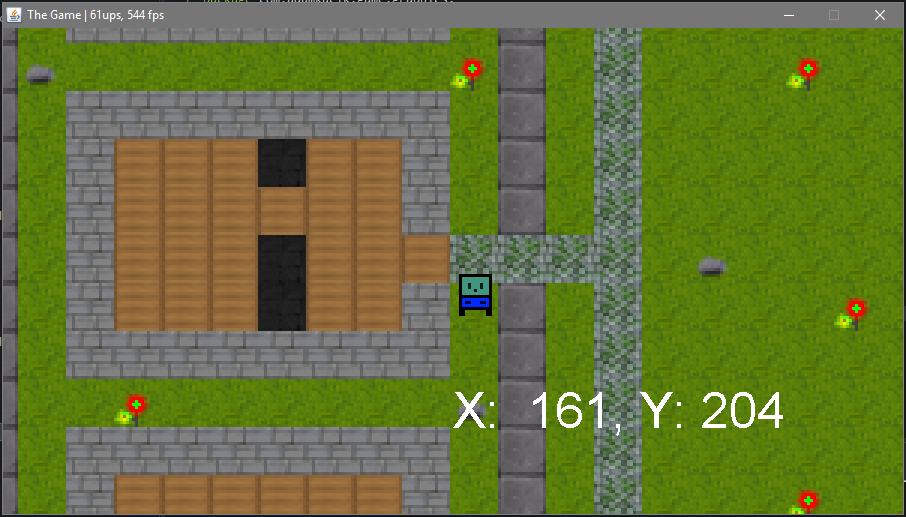
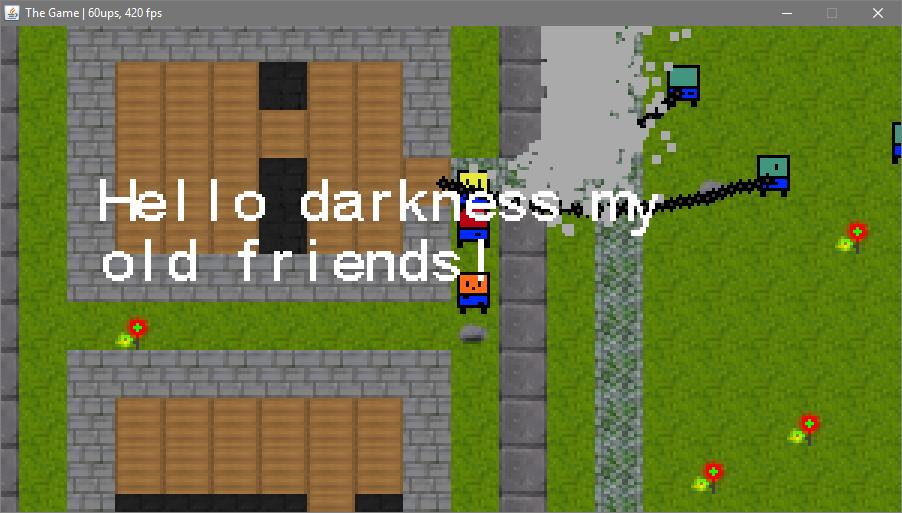
Text spacing/color

diff --git a/src/com/adamkacik/game/graphics/Screen.java b/src/com/adamkacik/game/graphics/Screen.java
@@ -19,6 +19,7 @@ public class Screen {
 	public final int MAP_SIZE_MASK = MAP_SIZE - 1;
 	public int xOffset, yOffset;
 	public int[] tiles = new int[MAP_SIZE * MAP_SIZE]; // 4096
+	private final int ALPHA_COL = 0xffff00ff;
 
 	private Random random = new Random();
 
@@ -53,6 +54,22 @@ public class Screen {
 		}
 	}
 	
+	public void renderTextCharacter(int xp, int yp, Sprite sprite,int color,  boolean fixed) {
+		if (fixed) {
+			xp -=xOffset;
+			yp -=yOffset;
+		}
+		for (int y=0; y < sprite.getHeight(); y++) {
+			int ya=y+yp;
+			for (int x=0; x<sprite.getWidth(); x++) {
+				int xa = x+xp;
+				if(xa<0 || xa>= width || ya <0 || ya>= height) continue;
+				int col = sprite.pixels[x+y*sprite.getWidth()];
+				if (col!= ALPHA_COL && col != 0xff7f007f) pixels[xa+ya*width]=color;
+			}
+		}
+	}
+	
 	public void renderSprite(int xp, int yp, Sprite sprite, boolean fixed) {
 		if (fixed) {
 			xp -=xOffset;
@@ -63,7 +80,8 @@ public class Screen {
 			for (int x=0; x<sprite.getWidth(); x++) {
 				int xa = x+xp;
 				if(xa<0 || xa>= width || ya <0 || ya>= height) continue;
-				pixels[xa+ya*width]=sprite.pixels[x+y*sprite.getWidth()];
+				int col = sprite.pixels[x+y*sprite.getWidth()];
+				if (col!= ALPHA_COL && col != 0xff7f007f) pixels[xa+ya*width]=col;
 			}
 		}
 	}
@@ -98,7 +116,7 @@ public class Screen {
 				if (xa < 0)
 					xa = 0;
 				int col = p.getSprite().pixels[x + y * p.getSpriteSize()];
-				if (col != 0xffff00ff) {
+				if (col != ALPHA_COL) {
 					pixels[xa + ya * width] = col;
 				}
 			}
@@ -125,7 +143,7 @@ public class Screen {
 				if (xa < 0)
 					xa = 0;
 				int col = sprite.pixels[xs + ys * 16];
-				if (col != 0xffff00ff) // +2 extra ff at the begining because RGB
+				if (col != ALPHA_COL) // +2 extra ff at the begining because RGB
 					pixels[xa + ya * width] = col;
 			}
 
@@ -148,7 +166,7 @@ public class Screen {
 				int col = mob.getSprite().pixels[(int)xs + (int)ys * 16];
 				if((mob instanceof Chaser) && col == 0xff42967F ) col = 0xffBA0015; // different colour for chaser
 				if((mob instanceof Star) && col == 0xff42967F) col = 0xffE8E83A; 
-				if (col != 0xffff00ff) // +2 extra ff at the begining because RGB
+				if (col != ALPHA_COL) // +2 extra ff at the begining because RGB
 					pixels[(int)xa + (int)ya * width] = col;
 			}
 

diff --git a/src/com/adamkacik/game/graphics/Font.java b/src/com/adamkacik/game/graphics/Font.java
@@ -20,12 +20,28 @@ public class Font {
 
 	}
 
-	public void render(String text, Screen screen) {
+	public void render(int x, int y, String text, Screen screen) {
+		render(x,y,0,0,text,screen);
+		}
+	public void render(int x, int y,int color, String text, Screen screen) {
+		render(x,y,0,color,text,screen);
+		}
+	public void render(int x, int y, int spacing,int color, String text, Screen screen) {
+		int xOffset = 0;
+		int line = 0;		
 		for (int i=0; i<text.length(); i++) {
+			xOffset += 16+spacing;
+			int yOffset =0;
 			char currentChar = text.charAt(i);
+			if(currentChar == 'g' || currentChar == 'y' || currentChar == 'j' || currentChar == 'p' || currentChar == 'q') yOffset = 4;
+			if(currentChar == ',') yOffset=2;
+			if(currentChar == '\n') {
+				xOffset=0;
+				line++;
+			}
 			int index = charIndex.indexOf(currentChar);
 			if (index == -1) continue;
-			screen.renderSprite(50 + i*16, 40, characters[index], false);
+			screen.renderTextCharacter(x + xOffset, y+line*20+yOffset, characters[index], color, false);
 			
 		}
 		}

diff --git a/src/com/adamkacik/game/Game.java b/src/com/adamkacik/game/Game.java
@@ -145,7 +145,7 @@ public class Game extends Canvas implements Runnable {
 		double xScroll = player.getX() - screen.width / 2; // middle of screen
 		double yScroll = player.getY() - screen.height / 2;
 		level.render((int)xScroll, (int)yScroll, screen);
-		font.render("The game!",screen);
+		font.render(20,50,-5,0xffffff,"Hello darkness my\nold friends!",screen);
 		//player.render(screen);
 		//screen.renderSheet(40, 40, SpriteSheet.player_down, false);
 		for (int i = 0; i < pixels.length; i++) {

diff --git a/src/com/adamkacik/game/level/SpawnLevel.java b/src/com/adamkacik/game/level/SpawnLevel.java
@@ -33,13 +33,13 @@ public class SpawnLevel extends Level {
 			System.out.println("Exception!! Could not load level file!!");
 		}
 		for (int i=0; i<2; i++) {
-			//add(new Dummy(191+i*20,170-i*13));
+			add(new Dummy(191+i*20,170-i*13));
 			
 		}
 		for (int i=0; i<1;i++) {
-			//add(new Chaser(230+i*30,170));
+			add(new Chaser(230+i*30,170));
 		}
-		//add (new Star(230, 190));
+		add (new Star(230, 190));
 		add(new Shooter(260,190));
 		add(new Shooter(230,160));
 		
